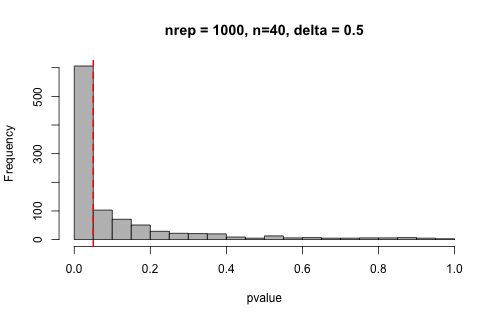
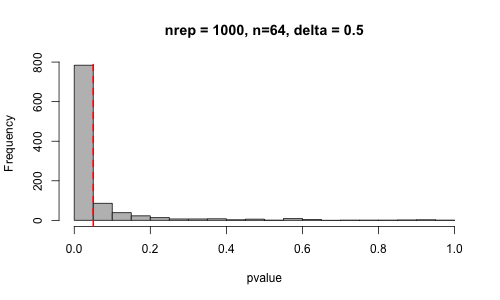
Update power example

diff --git a/simulate.md b/simulate.md
@@ -1,8 +1,10 @@
-# First real simulation: testing probability assumption
+# First real simulation: testing probability assumptions
 
-In most quantitative sciences we work with the statistical assumption "alpha = 0.05", which means that 5% of statistical tests should give a false positive result.  
+In most quantitative sciences we accept a type 1 error rate of "0.05", which often called the `alpha` or significance level. This value tells us the probability of rejecting the null hypothesis given that it is true. 
 
-If you draw from the same distribution twice, will the mean of the two samples differ significantly in 5% of the cases?  
+In other words, if there is no true effect (e.g. no difference between two groups), we would expect our null hypothesis of no effect to be rejected (incorrectly), `alpha`% of the time.
+
+If you draw from the same distribution twice, will the mean of the two samples differ significantly in 5% of the cases? 
 
 
 ***
@@ -50,6 +52,11 @@ These proportions are not signicantly different from 5%.
 data:  59 out of 1000, null probability 0.05  
 X-squared = 1.5211, df = 1, p-value = 0.2175  
 
+*** 
+
+It is important to note that, although `alpha = 0.05` is commonly used, this is an arbitrary choice and you should consider what is an appropriate type 1 error rate for your particular investigation.
+
+
 ***
 
 **YOUR TURN:**  
@@ -76,18 +83,36 @@ Please note that I do not suggest you use t tests to compare Poisson distributed
 
 ***
 
-## Checking power empirically
-The power tells us the probability that the test correctly rejects the null hypothesis. We can calculate the power of a t.test for a given sample size using:
-`power.t.test(n = 40, delta = 0.5, sd = 1)`
+## Checking power through simulations
+The power of a statistical test tells us the probability that the test correctly rejects the null hypothesis. In other words, if we only examine true effects, the power tells us the proportion of tests that will (correctly) reject the null hypothesis. Often, the power is set to `0.8`, though, as with `alpha = 0.05`, this is an arbitrary choice. 
 
-The power is `0.6`
+Generally, we want to do power analysis before collecting data, to work out the sample size we need to detect some effect. If we are calculating a required sample size, the power analysis can also be called a sample size calculation. 
 
-Just as we can check the alpha of our test by sampling from the same distribution, we can check the power by sampling from different distributions. 
+Taking the example of a t-test, we need to understand a few parameters:
+
+* `n`, the sample size
+* `delta`, the difference in means that you want to be able to detect. Deciding what this value * should be is tricky. You might rely on estimates from the literature (though bear in mind they are likely to be inflated), Or you can use a 'minimally important difference': you specify the threshold below which you do not think a difference is interesting enough to be worth detecting. In a clinical trial, this might be the smallest difference that a patient would care about, for example. 
+* `sd`, the standard deviation. Usually this needs to be estimated from the literature or from pilot studies. 
+* `sig.level`, the alpha, as discussd above. 
+* `power`, the power as defined above
+
+You can calculate any one of these parameters, given all of the others. We usually want to specify, `delta`, `sd`, `sig.level` and `power` and calculate the required sample size.
+
+We can calculate the required sample size for a t.test using:
+`power.t.test(n = NULL, delta = 0.5, sd = 1, sig.level = 0.05, power = 0.8)`
+
+Notice that `n = NULL`, so this parameter is calculated. 
+
+The sample size we need, per group, is `64`.
+
+***
+
+Just as we can check the alpha of our test by sampling from the same distribution (i.e. simulating data without an effect), we can check the power by sampling from different distributions (i.e. simulating data with an effect).
 
 ***
 
 **YOUR TURN:**  
-Use your simulation skills to work out the power empirically.
+Use your simulation skills to work out the power through simulation.
 Write a function which:
 
 1. Draws from two random normal distributions with different means and a given sample size
@@ -100,13 +125,19 @@ Calculate the proportion of p-values that are <0.05
 
 ***
 
-**p-values of t tests comparing means from 1000 sims N(0,1) and N(0.5, 1) with n=40**  
+**p-values of t tests comparing means from 1000 sims N(0,1) and N(0.5, 1) with n=64**  
 
 <br/>
 <img src="./assets/hist-power.png" width="500">  
 <br/>
 
-The proportion of correctly rejected null hypotheses in the simulation is close to the calculated power.
+The proportion of correctly rejected null hypotheses in the simulation is close to `0.8`, which is what we would expect. 
+
+***
+
+Using simulations for power analysis is not really necessary for simple examples like a t-test, though it is useful to check your understanding. 
+
+When analyses become complex and it is hard or impossible to determine a sample size analytically (i.e. you can't calculate it, or there's no suitable function to use), then simulations are an indespensible tool.
 
 ***
 
